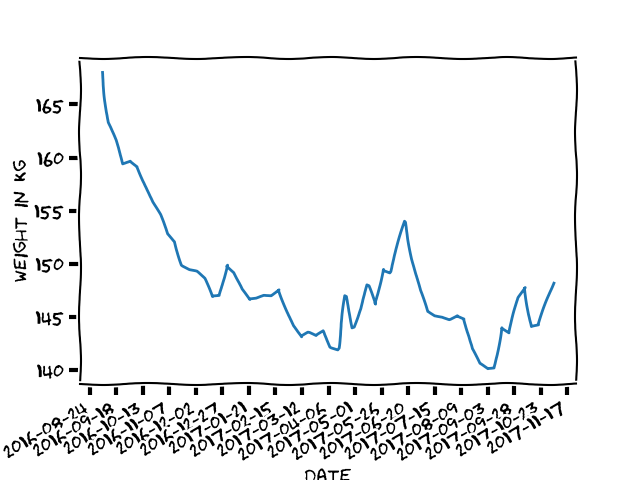
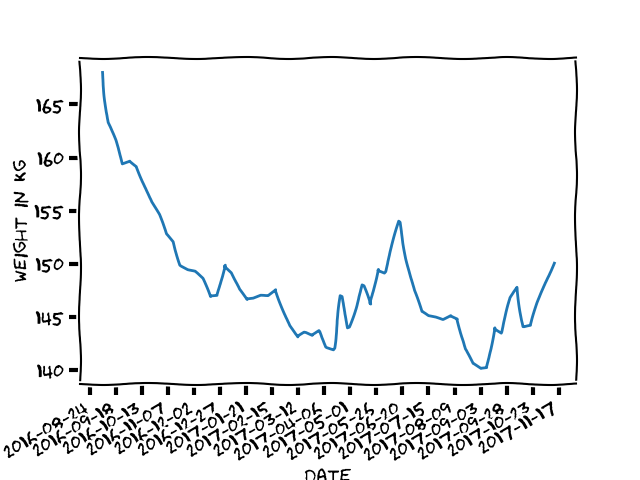
Week 46 update

diff --git a/index.html b/index.html
@@ -30,6 +30,14 @@
   </thead>
   <tbody>
     <tr>
+      <th>2017-11-12</th>
+      <td>150.1</td>
+      <td>1.9</td>
+      <td>-17.9</td>
+      <td>44.8</td>
+      <td>1.8</td>
+    </tr>
+    <tr>
       <th>2017-11-04</th>
       <td>148.2</td>
       <td>1.9</td>
